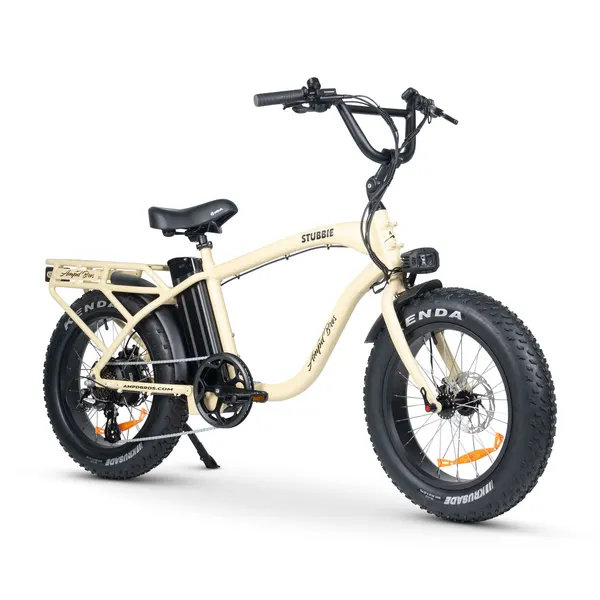
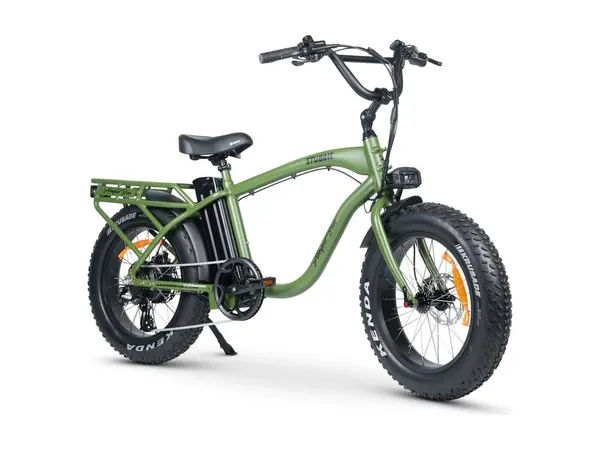
Replace shadow/off-white product photos with supplied clean photos (RTR Lite, Stubbie, Stubbie-S, Lil Rippa)
- ETM RTR Lite / Ronster RTR Lite 60v, Stubbie S3, Stubbie-S (main + colour view) and Lil Rippa 16" use the supplied photos, trimmed and centred on bright white 1200x900
- same file paths and extensions, so no page code changes; image variants regenerated; originals backed up outside the repo

Changed region(s): [[0.06, 0.0622, 0.93, 0.9333]]

diff --git a/src/config/image-variants.ts b/src/config/image-variants.ts
@@ -338,7 +338,7 @@ export const IMAGE_VARIANTS: Record<string, { v: string; vw: number; w: number }
  "/images/ampd/the-original-stubbie-s-electric-bike-4.jpg": {
   "v": "/images/_w/600/ampd/the-original-stubbie-s-electric-bike-4.webp",
   "vw": 600,
-  "w": 1100
+  "w": 1200
  },
  "/images/blog/australian-ebike-30.webp": {
   "v": "/images/_w/600/blog/australian-ebike-30.webp",
